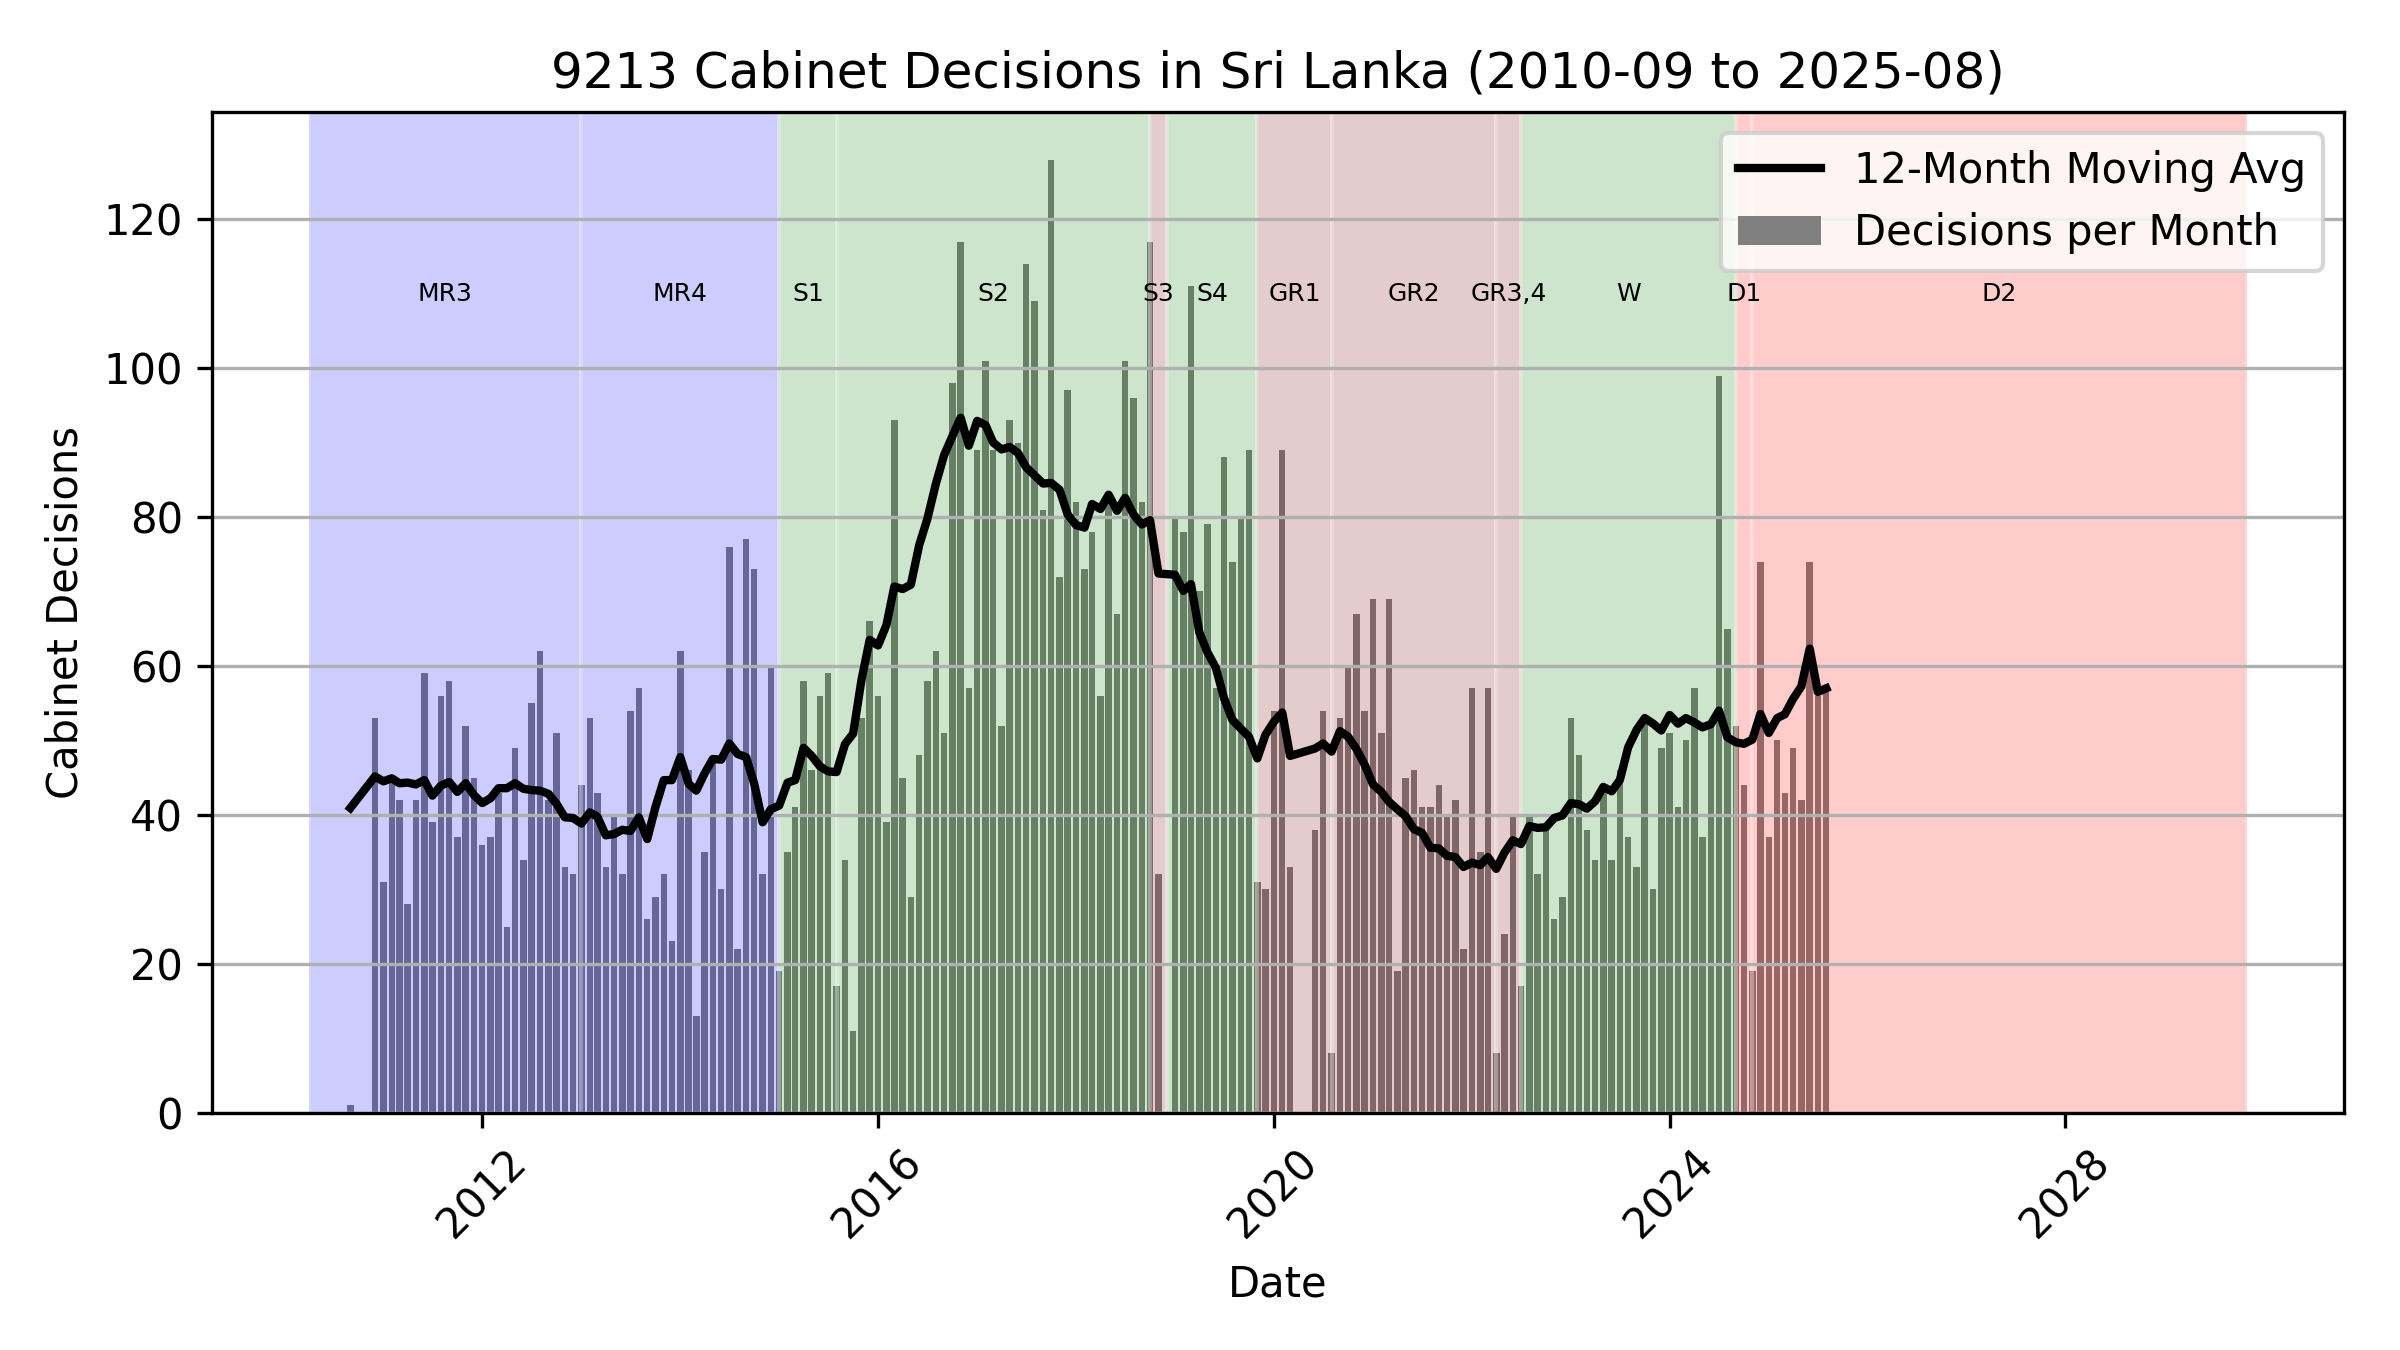
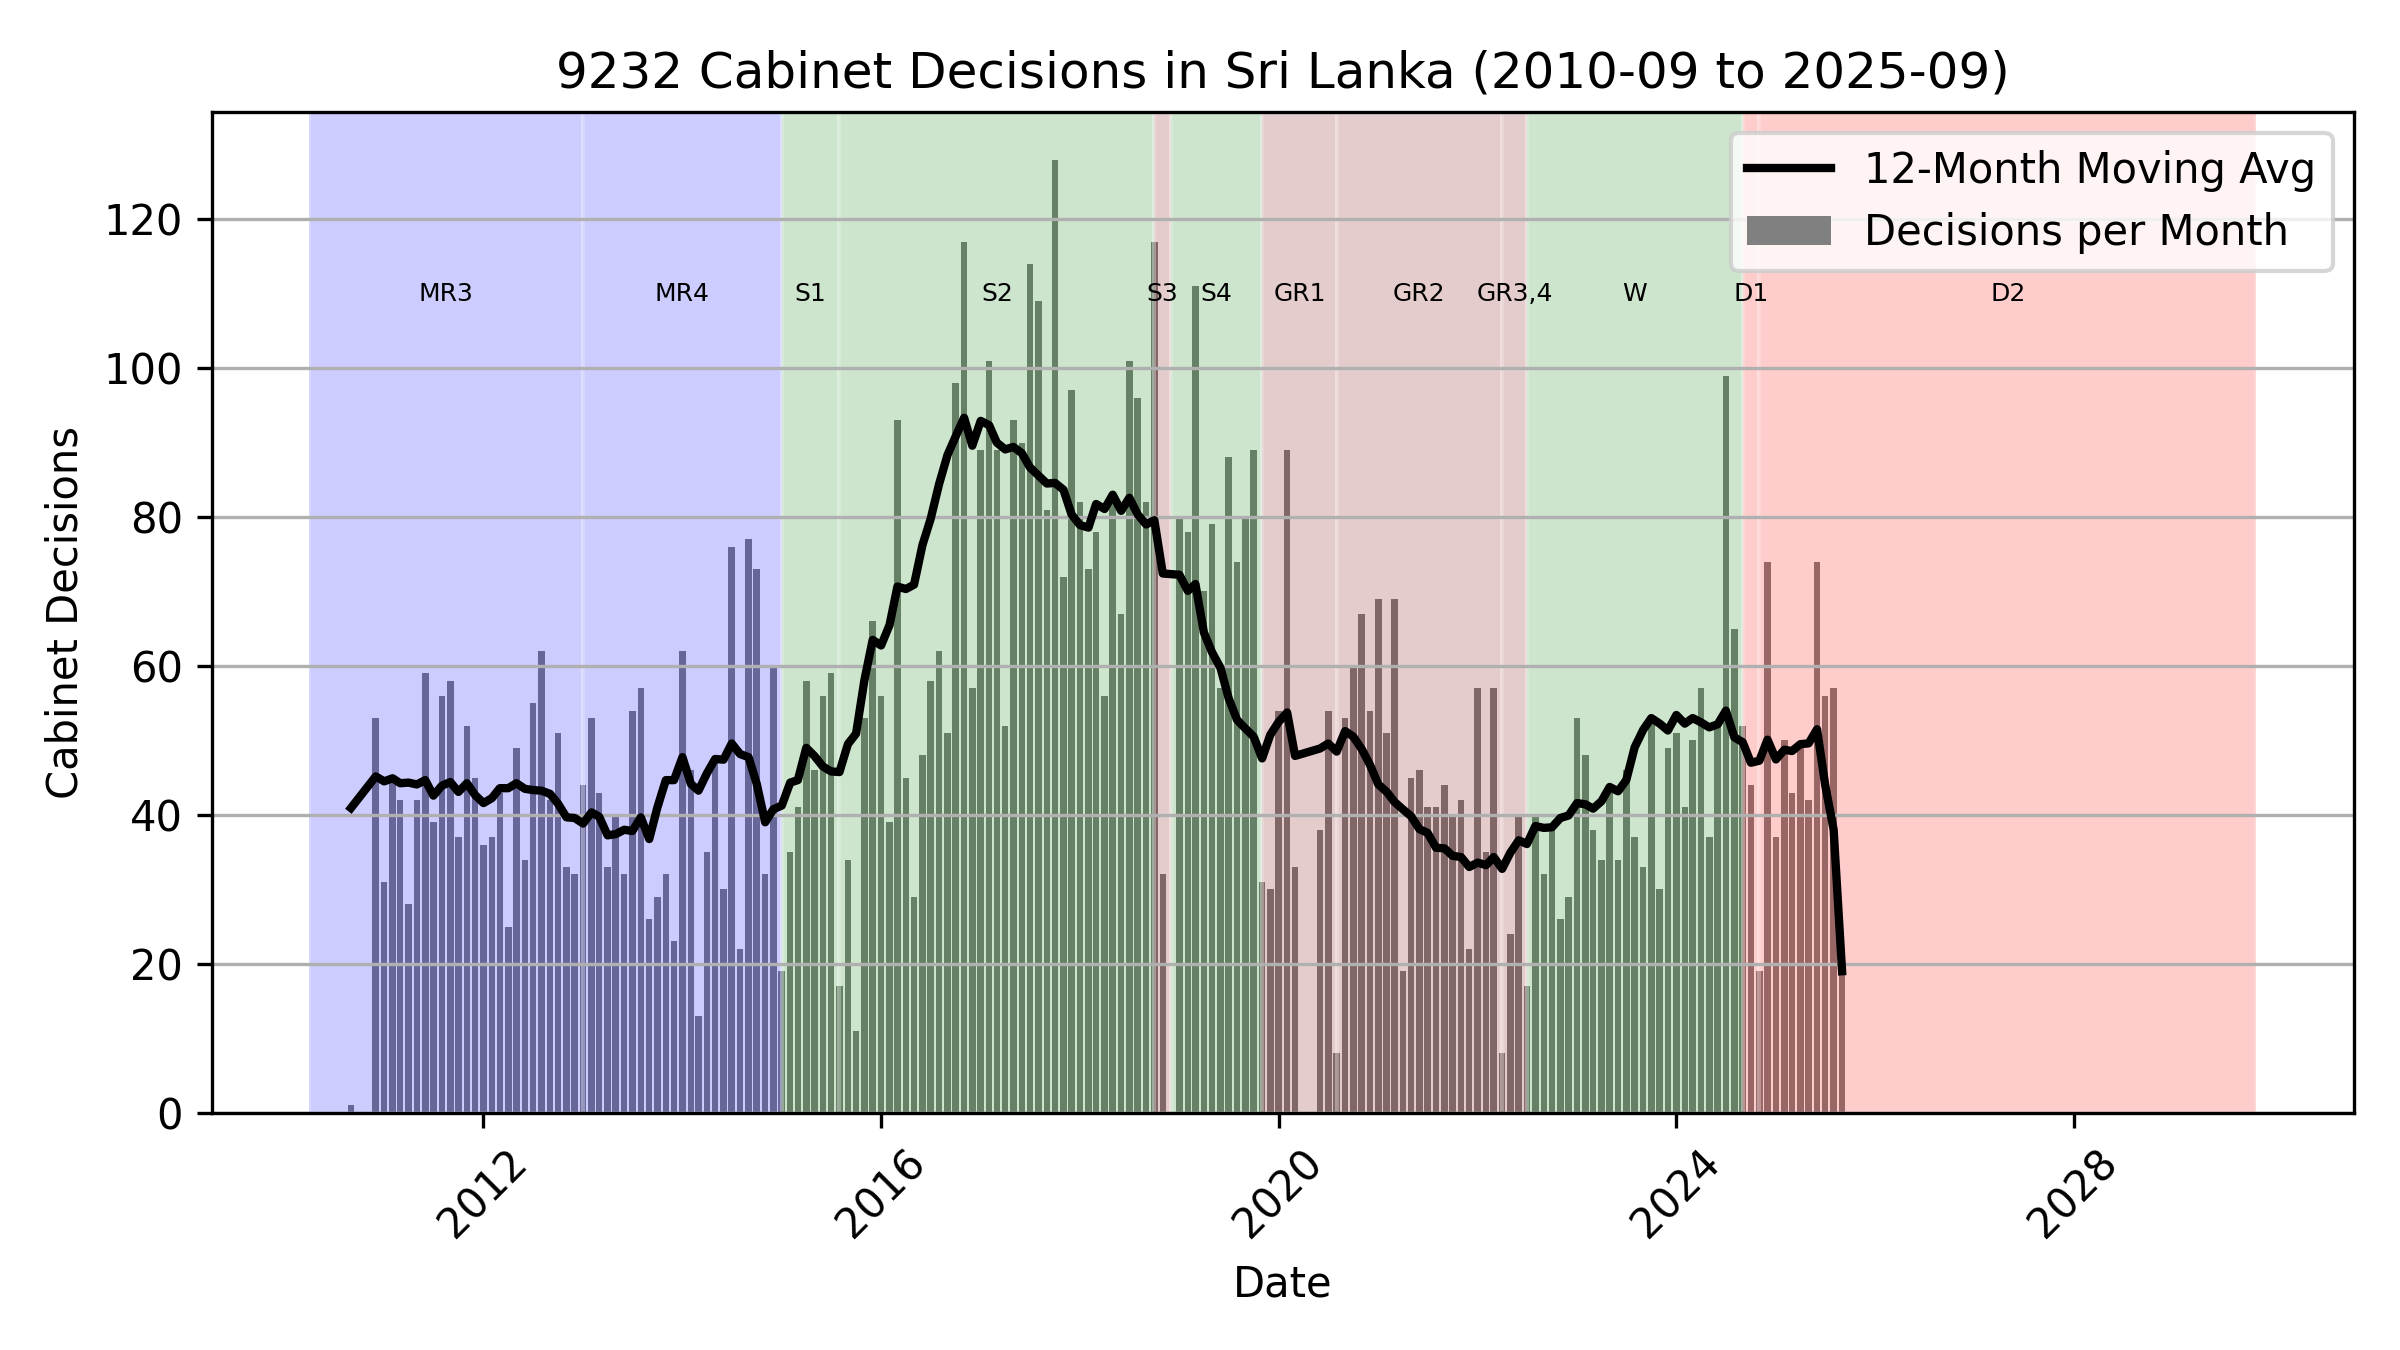
🤖 2025-09-08-1227 - pipeline.yml

diff --git a/README.md b/README.md
@@ -16,9 +16,9 @@ Sri Lanka.
 
 | | |
 |:--|--:|
-| Last Updated   | **2025-09-08 06:06:19**     |
-| nDecisions   | **9,213**     |
-| Latest   | **2025-08-25** |
+| Last Updated   | **2025-09-08 17:57:47**     |
+| nDecisions   | **9,232**     |
+| Latest   | **2025-09-03** |
 | Earliest | **2010-09-27** |
 
 ![Cabinet Decision Chart](images/cabinet_decision_chart.png)
@@ -27,57 +27,76 @@ Sri Lanka.
 
 ```json
 {
-  "date_str": "2025-08-25",
-  "decision_num": 11,
-  "title": "Appointment to the Posts of District Secretaries/Government Agents of the Administrative Districts of Kalutara and Puttalam",
-  "source_url": "https://www.cabinetoffice.gov.lk/cab/index.php?option=com_content&view=article&id=16&Itemid=49&lang=en&dID=13379",
-  "decision_details": "The proposal made by the Minister of Public Administration, Provincial Councils and Local Government to appoint Mr.H.M.S.P Herath, Special Grade Officer of the Sri Lanka Administrative Service, presently serving as the District Secretary/Government Agent of the Administrative District of Puttalam, to the Post of District Secretary/Government Agent of the Administrative District of Kalutara and to appoint Mr. Y.I.M Silva, Special Grade Officer of the Sri Lanka Administrative Service, presently serving as an Additional Secretary of the Ministry of Industry and Entrepreneurship Development, to the post of District Secretary/Government Agent of the Administrative District of Puttalam which falls so vacant, was approved by the Cabinet.",
-  "key": "2025-08-25-011-7e57"
+  "date_str": "2025-09-03",
+  "decision_num": 19,
+  "title": "Procurement for the Supply of 120,000 Vials of Human Immunoglobulin for Intravenous use BP 5g‑6g vial",
+  "source_url": "https://www.cabinetoffice.gov.lk/cab/index.php?option=com_content&view=article&id=16&Itemid=49&lang=en&dID=13398",
+  "decision_details": "- International competitive bids have been invited for the purchase of 120,000 vials of Human Immunoglobulin BP, 5-6g, for intravenous use, which is used to treat patients with immunodeficiency. Three (03) bids have been received for the same. Based on the recommendation of the Standing High-Level Procurement Committee regarding the said bids, the proposal made by the Minister of Health and Mass Media to award the said procurement to Reliance Life Sciences (Pvt) Ltd., India, the substantially responsive lowest evaluated bidder for a sum of US$ 10.506 million, was approved by the Cabinet.",
+  "key": "2025-09-03-019-e370"
 }
 ```
 
-[JSON Source](data/cabinet_decisions/2025/2025-08/2025-08-25-011-7e57.json)
+[JSON Source](data/cabinet_decisions/2025/2025-09/2025-09-03-019-e370.json)
 
 ## Example TSV Data
 
-[Complete TSV](data/cabinet_decisions.tsv) (9.42 MB)
+[Complete TSV](data/cabinet_decisions.tsv) (9.45 MB)
 
 | date_str | decision_num | title | source_url | decision_details | key |
 |:--|--:|:--|:--|:--|:--|
-| 2025-08-25 | 11 | Appointment to the P... | [https://www.cabineto...](https://www.cabinetoffice.gov.lk/cab/index.php?option=com_content&view=article&id=16&Itemid=49&lang=en&dID=13379) | The proposal made by... | 2025-08-25-011-7e57 |
-| 2025-08-25 | 10 | Pricing Mechanism of... | [https://www.cabineto...](https://www.cabinetoffice.gov.lk/cab/index.php?option=com_content&view=article&id=16&Itemid=49&lang=en&dID=13378) | The Medicines (Prici... | 2025-08-25-010-688a |
-| 2025-08-25 | 9 | Procurement of Stand... | [https://www.cabineto...](https://www.cabinetoffice.gov.lk/cab/index.php?option=com_content&view=article&id=16&Itemid=49&lang=en&dID=13377) | The auxiliary power ... | 2025-08-25-009-d87e |
+| 2025-09-03 | 19 | Procurement for the ... | [https://www.cabineto...](https://www.cabinetoffice.gov.lk/cab/index.php?option=com_content&view=article&id=16&Itemid=49&lang=en&dID=13398) | - International comp... | 2025-09-03-019-e370 |
+| 2025-09-03 | 18 | Procurement for the ... | [https://www.cabineto...](https://www.cabinetoffice.gov.lk/cab/index.php?option=com_content&view=article&id=16&Itemid=49&lang=en&dID=13397) | - International Comp... | 2025-09-03-018-24b1 |
+| 2025-09-03 | 17 | Procurement for the ... | [https://www.cabineto...](https://www.cabinetoffice.gov.lk/cab/index.php?option=com_content&view=article&id=16&Itemid=49&lang=en&dID=13396) | - International comp... | 2025-09-03-017-c639 |
 
-(These are the first 3 of **9,213** rows of the full TSV data)
+(These are the first 3 of **9,232** rows of the full TSV data)
 
 ## Last 3 Cabinet Decisions
 
-### 1) Appointment to the Posts of District Secretaries/Government Agents of the Administrative Districts of Kalutara and Puttalam
+### 1) Procurement for the Supply of 120,000 Vials of Human Immunoglobulin for Intravenous use BP 5g‑6g vial
 
-*2025-08-25*, *#11*
+*2025-09-03*, *#19*
 
-[https://www.cabinetoffice.gov.lk/cab/index.php?option=com_content&view=article&id=16&Itemid=49&lang=en&dID=13379](https://www.cabinetoffice.gov.lk/cab/index.php?option=com_content&view=article&id=16&Itemid=49&lang=en&dID=13379)
+[https://www.cabinetoffice.gov.lk/cab/index.php?option=com_content&view=article&id=16&Itemid=49&lang=en&dID=13398](https://www.cabinetoffice.gov.lk/cab/index.php?option=com_content&view=article&id=16&Itemid=49&lang=en&dID=13398)
 
-The proposal made by the Minister of Public Administration, Provincial Councils and Local Government to appoint Mr.H.M.S.P Herath, Special Grade Officer of the Sri Lanka Administrative Service, presently serving as the District Secretary/Government Agent of the Administrative District of Puttalam, to the Post of District Secretary/Government Agent of the Administrative District of Kalutara and to appoint Mr. Y.I.M Silva, Special Grade Officer of the Sri Lanka Administrative Service, presently serving as an Additional Secretary of the Ministry of Industry and Entrepreneurship Development, to the post of District Secretary/Government Agent of the Administrative District of Puttalam which falls so vacant, was approved by the Cabinet.
+International competitive bids have been invited for the purchase of 120,000 vials of Human Immunoglobulin BP, 5-6g, for intravenous use, which is used to treat patients with immunodeficiency. Three (03) bids have been received for the same. Based on the recommendation of the Standing High-Level Procurement Committee regarding the said bids, the proposal made by the Minister of Health and Mass Media to award the said procurement to Reliance Life Sciences (Pvt) Ltd., India, the substantially responsive lowest evaluated bidder for a sum of US$ 10.506 million, was approved by the Cabinet.
 
-### 2) Pricing Mechanism of Medicines in accordance with the National Medicines Regulatory Authority Act No. 5 of 2015
+### 2) Procurement for the supply of 680,000 Nos. of Hollow Fiber Dialyzer, Polysulphone/Polyethersulphone/Polynephrone, Low flux to medium flux 1.6m2 ‑ 1.8m2
 
-*2025-08-25*, *#10*
+*2025-09-03*, *#18*
 
-[https://www.cabinetoffice.gov.lk/cab/index.php?option=com_content&view=article&id=16&Itemid=49&lang=en&dID=13378](https://www.cabinetoffice.gov.lk/cab/index.php?option=com_content&view=article&id=16&Itemid=49&lang=en&dID=13378)
+[https://www.cabinetoffice.gov.lk/cab/index.php?option=com_content&view=article&id=16&Itemid=49&lang=en&dID=13397](https://www.cabinetoffice.gov.lk/cab/index.php?option=com_content&view=article&id=16&Itemid=49&lang=en&dID=13397)
 
-The Medicines (Pricing Mechanism for Medicines) Regulations No. 02 of 2025, have been issued introducing pricing mechanism for the Maximum Retail Price for an individual product and the pricing mechanism for the Maximum Ceiling Price for a dosage form and strength of a particular medicine or a particular group of medicines and the said Regulations have been published through the Gazette Extraordinary Notification No. 2446/34 dated 2025 07 21. Accordingly, the proposal made by the Minister of Health and Mass Media to submit the relevant Regulations to Parliament for approval, was approved by the Cabinet.
+International Competitive Bids have been invited for the procurement of Hollow Fiber Dialyzer, Polysulphone/Polyethersulphone/Polynephrone which are used for haemodialysis procedure. Two (02) bids have been received for the same. Accordingly, based on the recommendation of the Standing High‑Level Procurement Committee, the proposal made by the Minister of Health and Mass Media to award the said procurement to Bain Medical Equipment (Guangzhou) Co. Ltd., China, the substantially responsive lowest evaluated bidder, for a total cost of US$ 2.087 million, was approved by the Cabinet.
 
-### 3) Procurement of Standby Power Supply Systems for the Condenser Cooling System and the Boiler Feed Water System of the Norochcholai Lakvijaya Coal Power Plant
+### 3) Procurement for the Supply of 30,000 vials of Tenecteplase Injection 40mg Vial
 
-*2025-08-25*, *#9*
+*2025-09-03*, *#17*
 
-[https://www.cabinetoffice.gov.lk/cab/index.php?option=com_content&view=article&id=16&Itemid=49&lang=en&dID=13377](https://www.cabinetoffice.gov.lk/cab/index.php?option=com_content&view=article&id=16&Itemid=49&lang=en&dID=13377)
+[https://www.cabinetoffice.gov.lk/cab/index.php?option=com_content&view=article&id=16&Itemid=49&lang=en&dID=13396](https://www.cabinetoffice.gov.lk/cab/index.php?option=com_content&view=article&id=16&Itemid=49&lang=en&dID=13396)
 
-The auxiliary power supply of the Condenser Cooling System and the Boiler Feed Water System of the Norochcholai Lakvijaya Coal Power Plant become inoperative during an island-wide power outage as there is no auxiliary power supply available at the Plant for safe plant shut down. The operations of the Plant have to be shut down for 4 or 5 days to allow for cooling, thereby resulting a significant financial loss. The Committee appointed to find a technically sound solution to avoid this situation, has suggested that it is appropriate to introduce a seamless standby auxiliary power supply for critical systems that can be implemented within a short period of time. Accordingly, the proposal made by the Minister of Energy to implement a project to operate an auxiliary power supply for the Condenser Cooling System and the Boiler Feed Water System using the funds of the Ceylon Electricity Board, was approved by the Cabinet.
+International competitive bids have been invited for the purchase of 30,000 vials of Tenecteplase, a vaccine used to prevent deaths in people affected with heart attacks. Three bids (03) have been received for the same. Accordingly, based on the recommendation of the Standing High-Level Procurement Committee, the proposal made by the Minister of Health and Mass Media to award the said procurement to ABC Pharma Services (Pvt) Ltd., Sri Lanka (Manufacturer: Reliance Life Sciences (Pvt) Ltd., India), the substantially responsive lowest evaluated bidder, for a total cost of Rs.2,385 million, was approved by the Cabinet.
 
-## All Cabinet Decisions (9,213)
+## All Cabinet Decisions (9,232)
 
+- [2025-09-03] [Procurement for the Supply of 120,000 Vials of Human Immunoglobulin for Intravenous use BP 5g‑6g vial](data/cabinet_decisions/2025/2025-09/2025-09-03-019-e370.json)
+- [2025-09-03] [Procurement for the supply of 680,000 Nos. of Hollow Fiber Dialyzer, Polysulphone/Polyethersulphone/Polynephrone, Low flux to medium flux 1.6m2 ‑ 1.8m2](data/cabinet_decisions/2025/2025-09/2025-09-03-018-24b1.json)
+- [2025-09-03] [Procurement for the Supply of 30,000 vials of Tenecteplase Injection 40mg Vial](data/cabinet_decisions/2025/2025-09/2025-09-03-017-c639.json)
+- [2025-09-03] [Procurement for the supply of Instrument Sets used for bone fixation, fracture stabilization and alignment assurance](data/cabinet_decisions/2025/2025-09/2025-09-03-016-8f05.json)
+- [2025-09-03] [Amendment of the date of imposition of Value Added Tax (VAT) on the supply of services through electronic platforms by non-resident suppliers](data/cabinet_decisions/2025/2025-09/2025-09-03-015-f143.json)
+- [2025-09-03] [Appointment to the post of Director General of the Department of Census and Statistics](data/cabinet_decisions/2025/2025-09/2025-09-03-014-ca45.json)
+- [2025-09-03] [Amendment of the fines relating to offences under the Employment of Women, Young Persons and Children Act, No.47 of 1956](data/cabinet_decisions/2025/2025-09/2025-09-03-013-f498.json)
+- [2025-09-03] [Amendment of Sri Lanka Institute of Marketing (Incorporation) Act, No.41 of 1980](data/cabinet_decisions/2025/2025-09/2025-09-03-012-e7c3.json)
+- [2025-09-03] [Rehabilitation and Modernization of the Sri Lanka Planetarium](data/cabinet_decisions/2025/2025-09/2025-09-03-011-ae0d.json)
+- [2025-09-03] [Expeditiously completing the Project for renovation and conservation of the National Art Gallery](data/cabinet_decisions/2025/2025-09/2025-09-03-010-7183.json)
+- [2025-09-03] [Conducting inquiries into complaints made with regard to missing persons](data/cabinet_decisions/2025/2025-09/2025-09-03-009-013a.json)
+- [2025-09-03] [Removal of the concessions granted in purchasing houses from the 'Viyathpura' Housing Project by the Members of Parliament](data/cabinet_decisions/2025/2025-09/2025-09-03-008-0e9c.json)
+- [2025-09-03] [Installation of Barricade Nets in selected perennial reservoirs to protect freshwater fish harvest](data/cabinet_decisions/2025/2025-09/2025-09-03-007-cc1d.json)
+- [2025-09-03] [Local assembly of a Light Train Set with three coaches](data/cabinet_decisions/2025/2025-09/2025-09-03-006-da80.json)
+- [2025-09-03] [Reconstruction Project of the Sluice Tower, Sluice Barrel and remaining parts of the Senanayake Samudraya](data/cabinet_decisions/2025/2025-09/2025-09-03-005-92ff.json)
+- [2025-09-03] [Establishment of the Customs Verification Centre at Kerawalapitiya](data/cabinet_decisions/2025/2025-09/2025-09-03-004-048b.json)
+- [2025-09-03] [Establishment of Diplomatic relations with Antigua and Barbuda](data/cabinet_decisions/2025/2025-09/2025-09-03-003-6f9a.json)
+- [2025-09-03] [Closure of Non-Functioning State-Owned Enterprises](data/cabinet_decisions/2025/2025-09/2025-09-03-002-bbe5.json)
+- [2025-09-03] [Admission of Students from Grade 2 to 11 except Grade 5 and 6 in Schools](data/cabinet_decisions/2025/2025-09/2025-09-03-001-4a03.json)
 - [2025-08-25] [Appointment to the Posts of District Secretaries/Government Agents of the Administrative Districts of Kalutara and Puttalam](data/cabinet_decisions/2025/2025-08/2025-08-25-011-7e57.json)
 - [2025-08-25] [Pricing Mechanism of Medicines in accordance with the National Medicines Regulatory Authority Act No. 5 of 2015](data/cabinet_decisions/2025/2025-08/2025-08-25-010-688a.json)
 - [2025-08-25] [Procurement of Standby Power Supply Systems for the Condenser Cooling System and the Boiler Feed Water System of the Norochcholai Lakvijaya Coal Power Plant](data/cabinet_decisions/2025/2025-08/2025-08-25-009-d87e.json)
